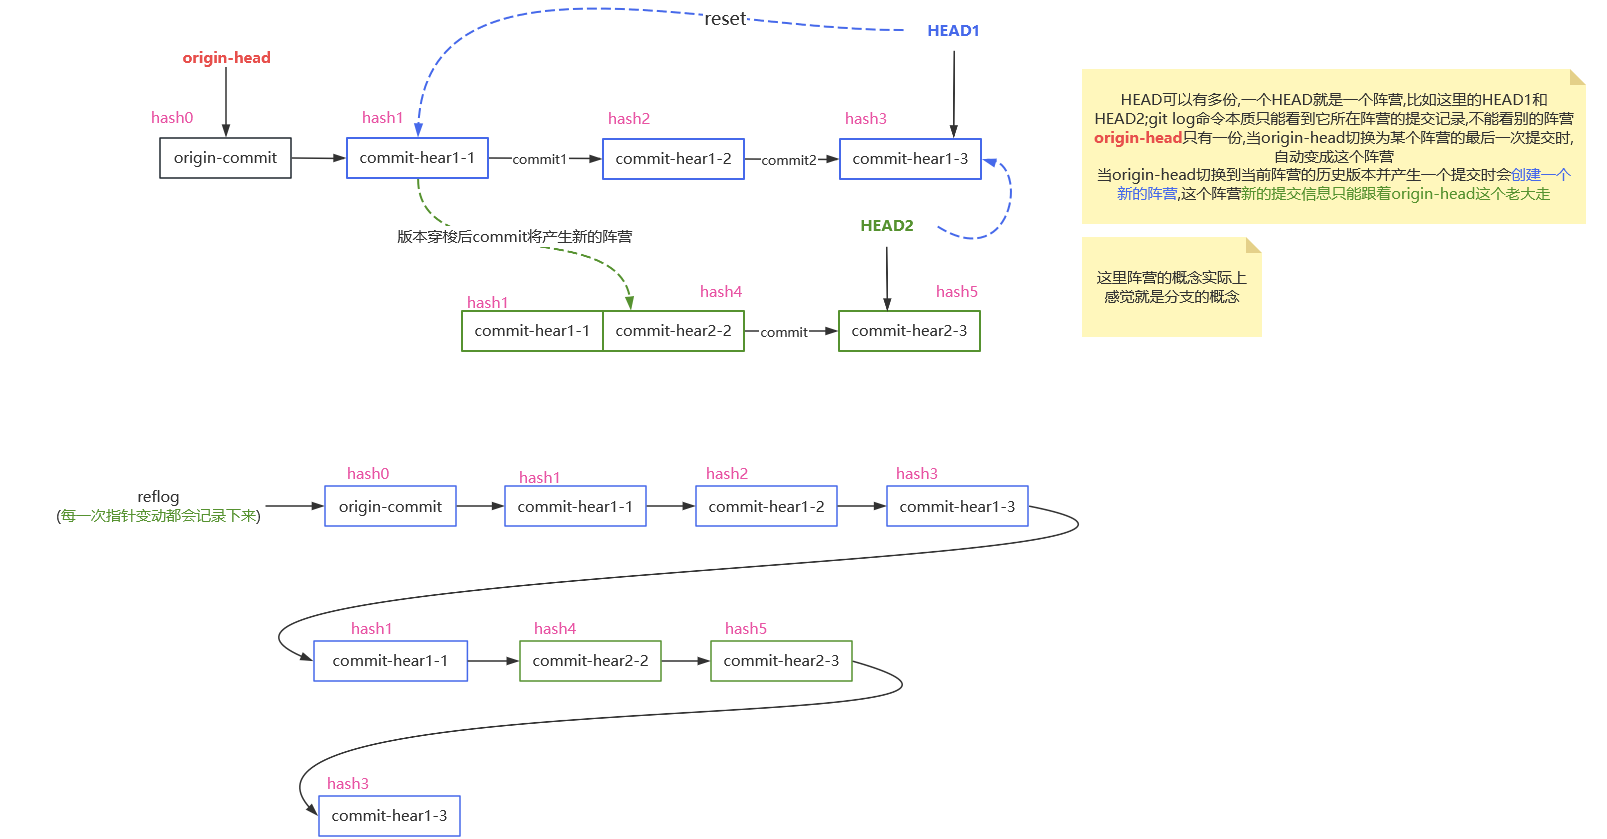
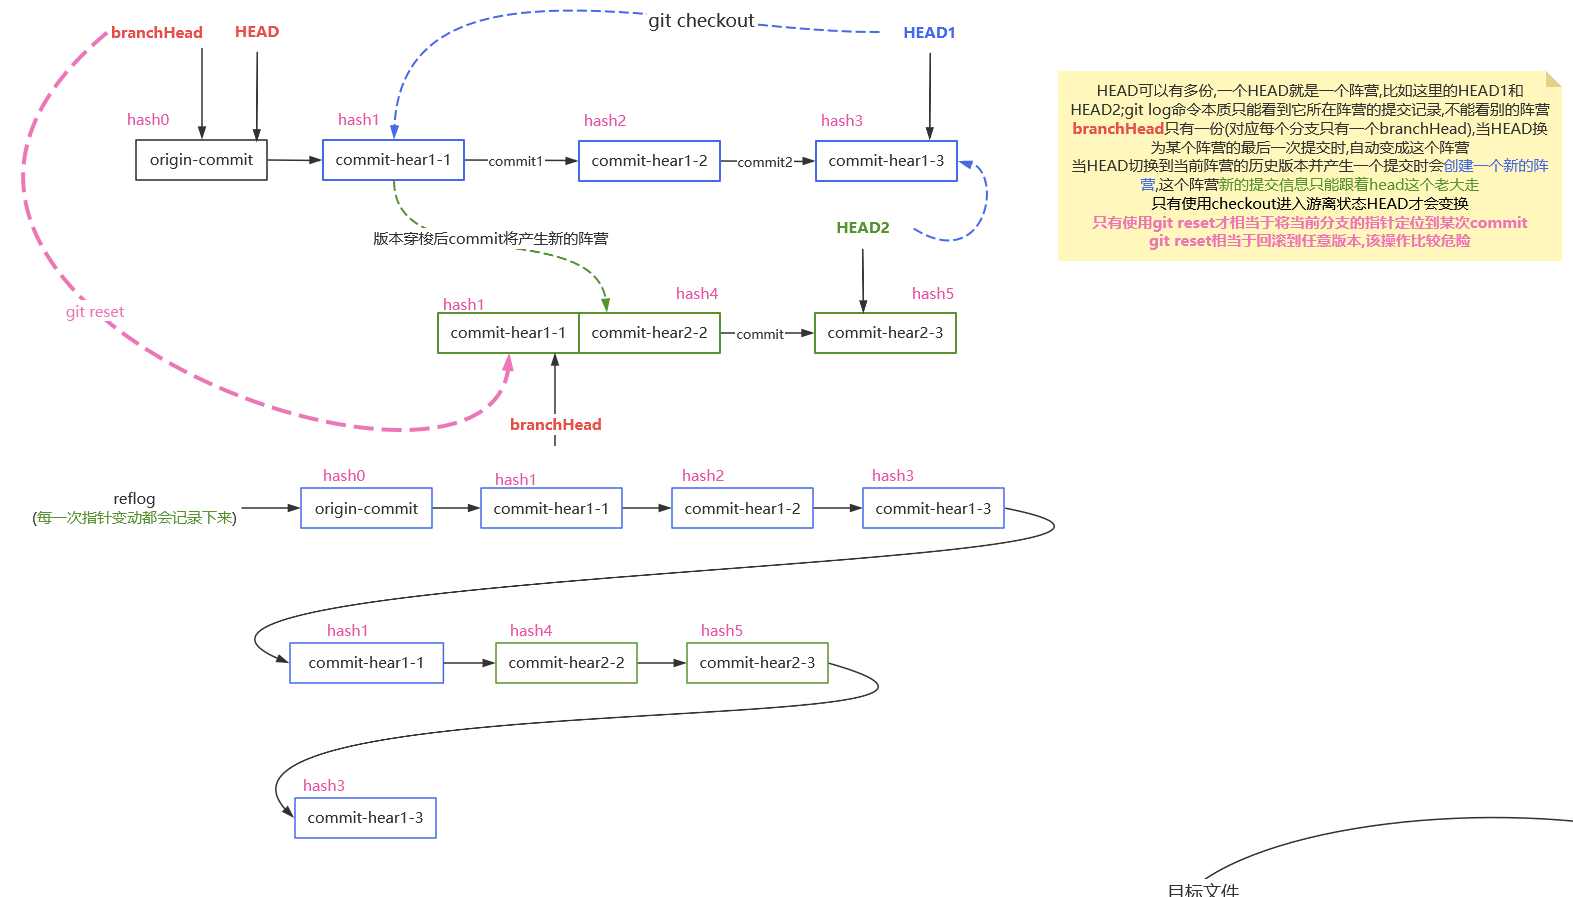
更新Git笔记

diff --git a/Program/Git.md b/Program/Git.md
@@ -254,8 +254,10 @@ B.SourceTree安装教程
 
 ## 5.检查历史/状态相关命令
 * `git status` 查看Git本地仓库的状态
-* `git log [-graph]` 查看所有commit操作
-  更准确的说这条命令是<font color="#00FF00">查看当前HEAD指针指向的版本及该版本之前的commit信息</font>,至于采用这种说法就是为了描述<font color="#FF00FF">版本穿梭</font>和`git reflog`命令形成对比
+* `git log [branchName] [-graph] [--pretty=oneline] [--abbrev-commit]` 查看某个分支的所有commit操作
+  更准确的说这条命令是<font color="#00FF00">查看`branchName`分支当前HEAD指针指向的版本及该版本之前的commit信息</font>,至于采用这种说法就是为了描述<font color="#FF00FF">版本穿梭</font>和`git reflog`命令形成对比
+  * `branchName`:查看哪个分支,默认不填就是当前分支  
+    *提示:该命令同样可以查看远程分支的commit信息,例如查看origin/master分支*  
   * `-graph`:以图的形式显示所有提交记录
   * `--pretty=oneline`:只显示hash值和提交信息(这个选项会忽略很多信息)
   * `--abbrev-commit`:只显示提交hash值的前7位
@@ -416,15 +418,50 @@ B.SourceTree安装教程
 34. 工作区的回滚(各种意义上的)使用的都是`git restore`,而暂存区的回滚(各种意义上的)使用的都是`git restore --staged`  
 35. 版本回滚流程图
     ![版本回滚](resources/git/8.png)
-    HEAD可以有多份,<font color="#00FF00">一个HEAD就是一个阵营</font>,比如这里的HEAD1和HEAD2;git log命令本质只能看到<font color="#FF00FF">origin-head</font>所在阵营的提交记录,不能看别的阵营  
-    <font color="#FF00FF">origin-head只有一份</font>,当origin-head切换为某个阵营的<font color="#FFC800">最后一次提交</font>时,自动变成这个阵营  
-    当origin-head切换到当前阵营的历史版本并产生一个提交时会<font color="#00FF00">创建一个新的阵营</font>,<font color="#FFC800">这个阵营新的提交信息只能跟着origin-head这个老大走</font>  
+    HEAD可以有多份,<font color="#00FF00">一个HEAD就是一个阵营</font>,比如这里的HEAD1和HEAD2;git log命令本质只能看到<font color="#00FF00">HEAD</font>所在阵营的提交记录,不能看别的阵营  
+    <font color="#FF00FF">branchHead只有一份<font color="#00FFFF">(对应每个分支只有一个branchHead,在第39条中读取到的分支hash值就是branchHead对应的hash值,而不是HEAD的hash值)</font></font><font color="#00FF00">,当HEAd切换为某个阵营的</font><font color="#FFC800">最后一次提交</font>时,自动变成这个阵营  
+    当HEAD切换到当前阵营的历史版本并产生一个提交时会<font color="#00FF00">创建一个新的阵营</font>,<font color="#FFC800">这个阵营新的提交信息只能跟着HEAD这个老大走</font>  
+    可以使用`git checkout`命令使HEAD进入游离状态  
+    <font color="#ff9999">只有使用git reset才相当于将当前分支的指针定位到某次commit;git reset相当于回滚到任意版本,该操作比较危险</font>  
 36. 版本穿梭的本质是创建一个看不到的分支,并且该分支的名称就是目标版本的hash值,该分支的版本就是目标版本;
     在游离状态(版本穿梭后的状态就是游离状态)下<font color="#FFC800">如果对文件进行修改就必须要提交</font>,提交就会产生新的hash,因为版本穿梭是创建新的分支所以本次提交对源分支master是不可见的  
     <font color="#FF00FF">游离状态是创建分支的好时机,版本穿梭就是用于创建分支的</font>  
     如果想退出版本穿梭,只要执行`git switch`切换分支(例如master)即可  
     实际上版本穿梭并不是分支,<font color="#00FF00">游离的本意就是当前不处于任何分支</font>,这里只是便于理解;因为它并不具有分支的一些特征,比如分支重命名  
-
+37. 本地与远程冲突解决流程图
+    ![本地与远程冲突解决流程图](resources/git/12.png)  
+    和之前最大的区别在于之前是主动合并的分支的提交在后面,被动合并的分支的提交在前面;这里规定就是:<font color="#FF00FF">当远程分支和本地分支合并产生冲突时,远程分支的提交在后面,本地分支的提交在前面</font>再加一个解决冲突的提交  
+    <font color="#00FF00">远程分支的commit提交链一旦确定就不能随意穿插commit记录</font>  
+    此时当别的本地分支再合并的远程分支的时候,还是<font color="#FFC800">先找同源点,如果本地分支在同源点之后没有任何提交则触发fast-forward</font>  
+38. 本地和远程合并流程图  
+    <font color="#FF00FF">如果本地的本次push不能使远程分支产生fast-forward,但也不会产生冲突的情况下;分支合并成功后Git会自动额外创建一个commit</font>  
+    例如本地的master分支和远程master分支的第一个同源点是<font color="#FF00FF">origin-master</font>,此时本地master产生了一个提交<font color="#00FF00">commit-A</font>;远程的分支被别人push了也产生了一个提交称为<font color="#FFC800">commit-B</font>(并且这两个提交不冲突);此时本地分支push不会报错、不会冲突但也不会产生fast-forward(因为本地和远程找到最新的一个同源点后发现本地还有提交)  
+    此时Git的版本链为:<font color="#FF00FF">origin-master</font>-><font color="#FFC800">commit-B</font>-><font color="#00FF00">commit-A</font>-><font color="#FF0000">Merge branch 'master' of xxx</font>  
+    commit-B在后面是因为commit-B是先提交的(远程一旦确定不能改变),重要的是Git会自动生成一个新的提交就是这里的<font color="#FF0000">Merge branch 'master' of xxx</font>  
+    ![本地和远程合并流程图](resources/git/13.png)  
+39. 分支在Git中的存储方式
+    进入每个Git项目的.git文件夹,这里列举它的文件目录结构  
+    * git
+      * `COMMIT_EDITMSG`:存放<font color="#00FF00">当前分支</font>的<font color="#FF00FF">branchHead</font>指针指向的commit的提交信息
+        branchHead的概念可以见35条  
+      * `config`:存放当前项目的配置信息(项目级别的配置信息)  
+        即`git config --local`命令保存的信息
+      * `FETCH_HEAD`:存放当前分支对应的远程分支的commit信息(实际上就是当前分支对应的本地的远程分支的commit信息)  
+      * `HEAD`:当前HEAD对应的commit值是什么
+        该文件的内容一般是引用一个分支的HEAD,一种可能的值是:<font color="#00FF00">ref: refs/heads/master</font>
+      * `refs`:
+        * `stash`:存放保存现场栈顶的hash值文件  
+        在`git stash`命令中讲过,git保存现场是使用栈的结构存储的,所以该文件保存的是栈顶的hash值  
+        * `tags`:该文件夹下存放当前项目的所有tag标签(标签是不区分分支的)
+        * `heads`:存放所有分支的<font color="#FF00FF">branchHead</font>指针指向的hash值
+          * `dev`:存放dev分支的branchHead对应的hash值
+          * `master`:存放master分支的branchHead对应的hash值
+        * `remotes`:存放当前项目关联的所有远程项目
+          之前说过一个项目可以关联多个远程仓库,例如这里关联了两个远程仓库origin和upstream
+          * `origin`:自已fork的远程仓库
+            * `dev`:本地的远程分支dev(用它来感知远程origin仓库的dev分支)
+            * `master`:本地的远程分支master(用它来感知远程origin仓库的master分支)
+          * `upstream`:源仓库
 
 
 
